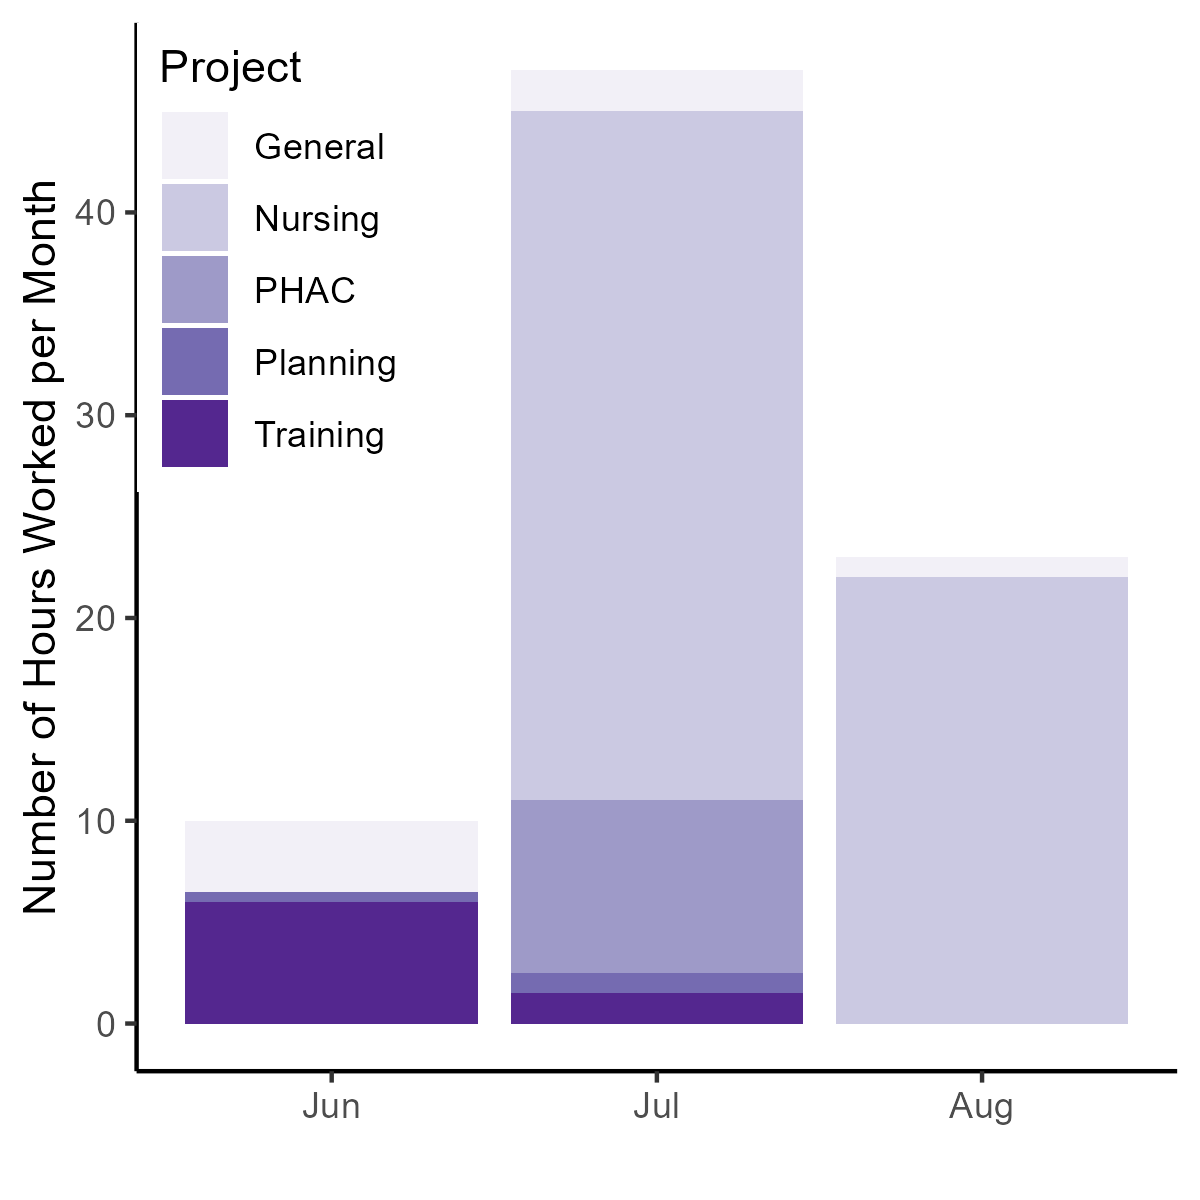
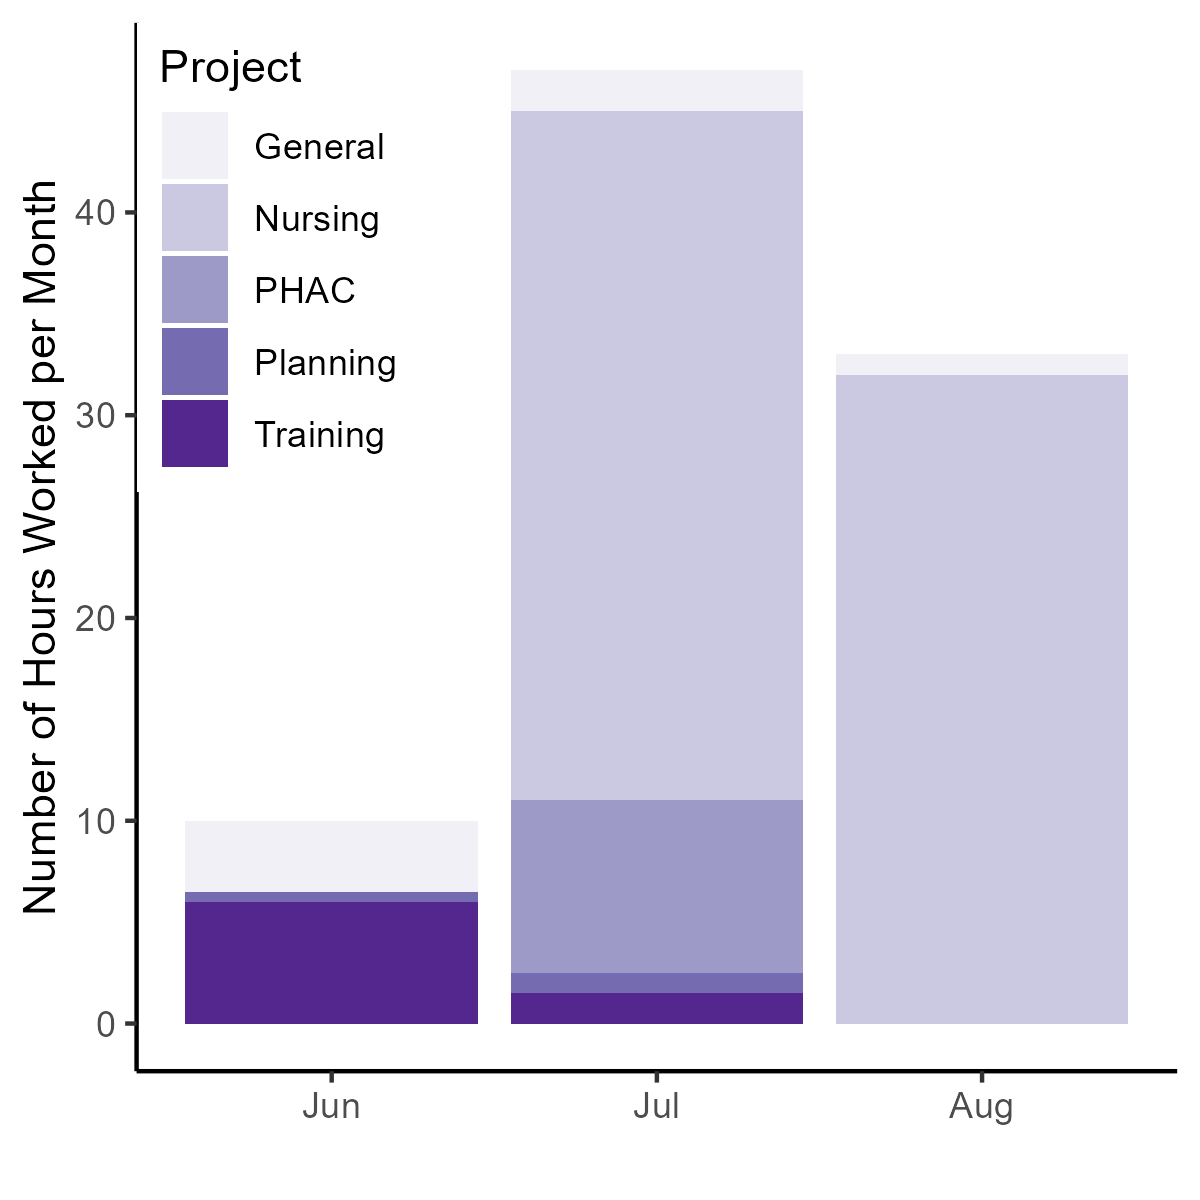
update

Changed region(s): [[0.6783, 0.3083, 0.9558, 0.4933]]

diff --git a/docs/index.html b/docs/index.html
@@ -1890,13 +1890,6 @@ class="section level3">
 
 </div>
 <table>
-<colgroup>
-<col width="9%" />
-<col width="10%" />
-<col width="6%" />
-<col width="68%" />
-<col width="5%" />
-</colgroup>
 <thead>
 <tr class="header">
 <th align="left">Date</th>
@@ -1907,30 +1900,6 @@ class="section level3">
 </tr>
 </thead>
 <tbody>
-<tr class="odd">
-<td align="left">2024-08-15</td>
-<td align="left">Thursday</td>
-<td align="left">Nursing</td>
-<td align="left">Working on ethics docs, researching spasticity
-measurement tools, making notes</td>
-<td align="right">6</td>
-</tr>
-<tr class="even">
-<td align="left">2024-08-16</td>
-<td align="left">Friday</td>
-<td align="left">Nursing</td>
-<td align="left">Background resarch about spasticity measurement tools
-for phase 2</td>
-<td align="right">3</td>
-</tr>
-<tr class="odd">
-<td align="left">2024-08-18</td>
-<td align="left">Sunday</td>
-<td align="left">General</td>
-<td align="left">Improve time-tracking dashboard to show project
-progress</td>
-<td align="right">1</td>
-</tr>
 </tbody>
 </table>
 </div>
@@ -1989,6 +1958,33 @@ class="section level3">
 </tr>
 </thead>
 <tbody>
+<tr class="odd">
+<td align="left">2024-08-23</td>
+<td align="left">Nursing</td>
+<td align="left">Reading Nursing Literature - Focusing on how they write
+their papers (lots of tables, fewer figs in most.)</td>
+<td align="right">3.0</td>
+</tr>
+<tr class="even">
+<td align="left">2024-08-22</td>
+<td align="left">Nursing</td>
+<td align="left">Sourcing Professional Nursing Organizations to contact
+for Phase 1B</td>
+<td align="right">2.0</td>
+</tr>
+<tr class="odd">
+<td align="left">2024-08-22</td>
+<td align="left">Nursing</td>
+<td align="left">Reading papers about HCP perspectives on other
+health-related issues</td>
+<td align="right">3.0</td>
+</tr>
+<tr class="even">
+<td align="left">2024-08-22</td>
+<td align="left">Nursing</td>
+<td align="left">Working on ethics docs</td>
+<td align="right">2.0</td>
+</tr>
 <tr class="odd">
 <td align="left">2024-08-18</td>
 <td align="left">General</td>
